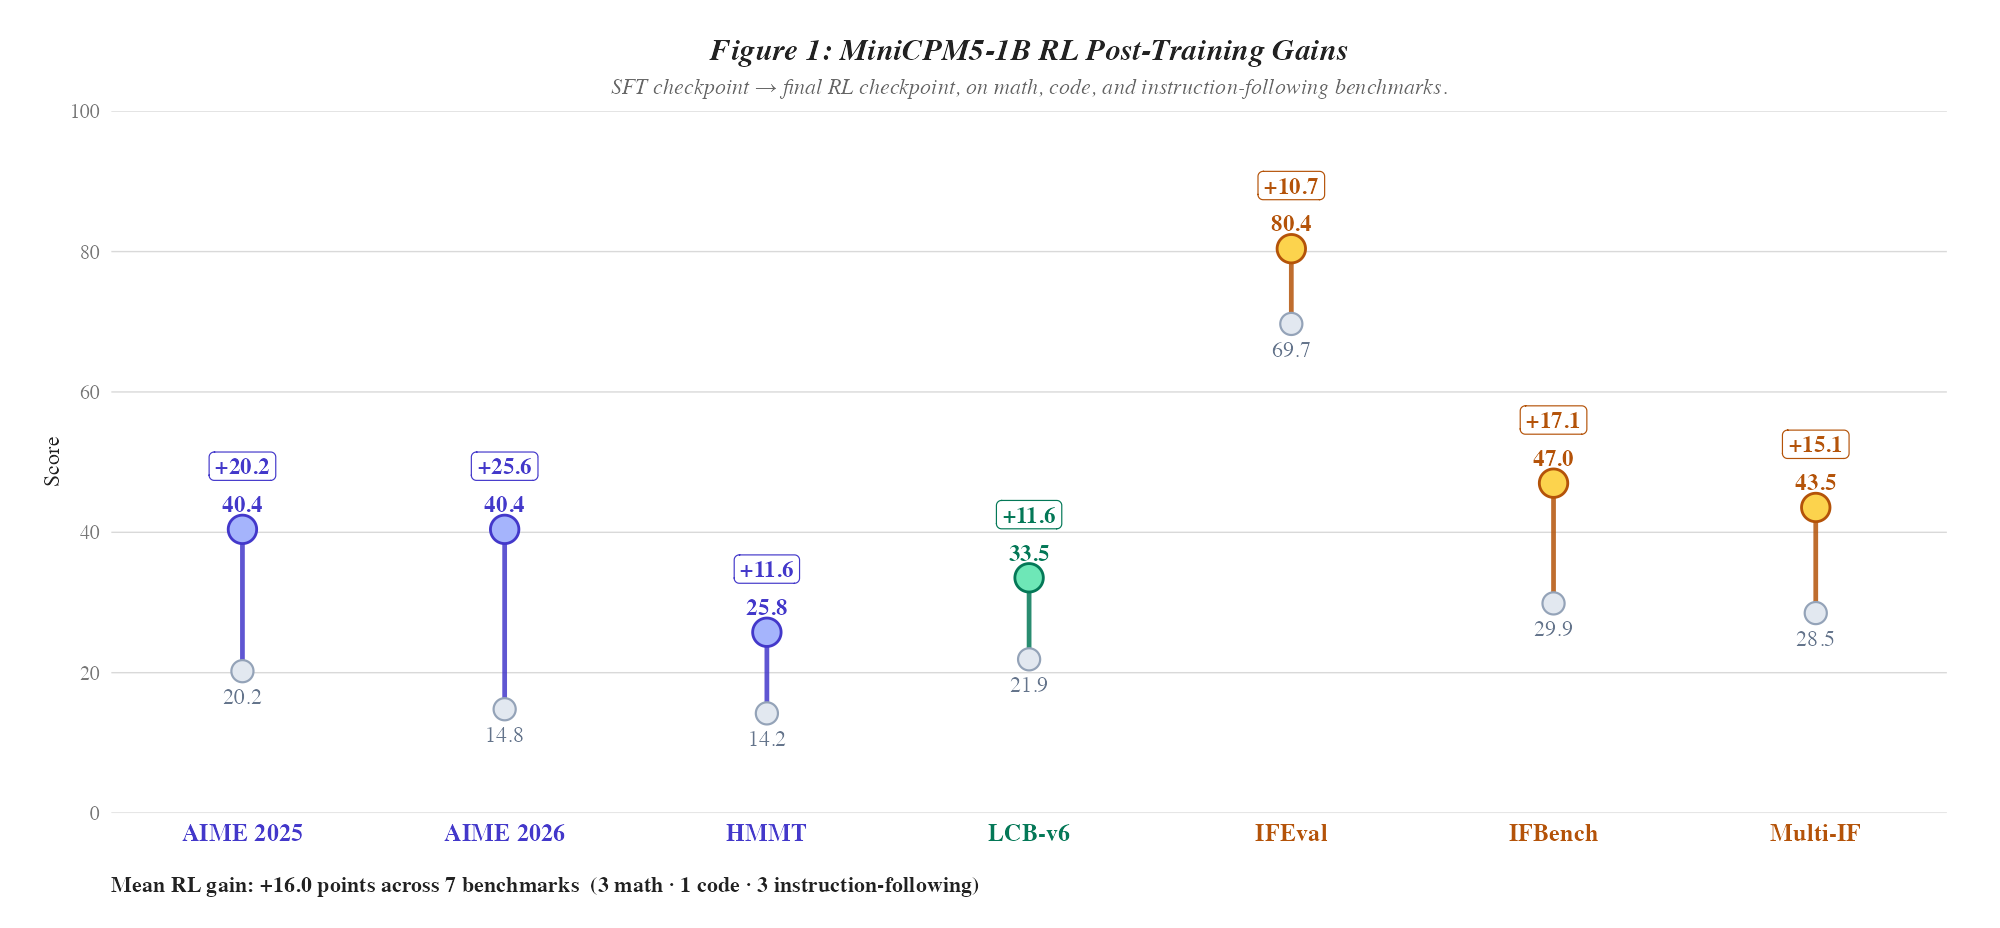
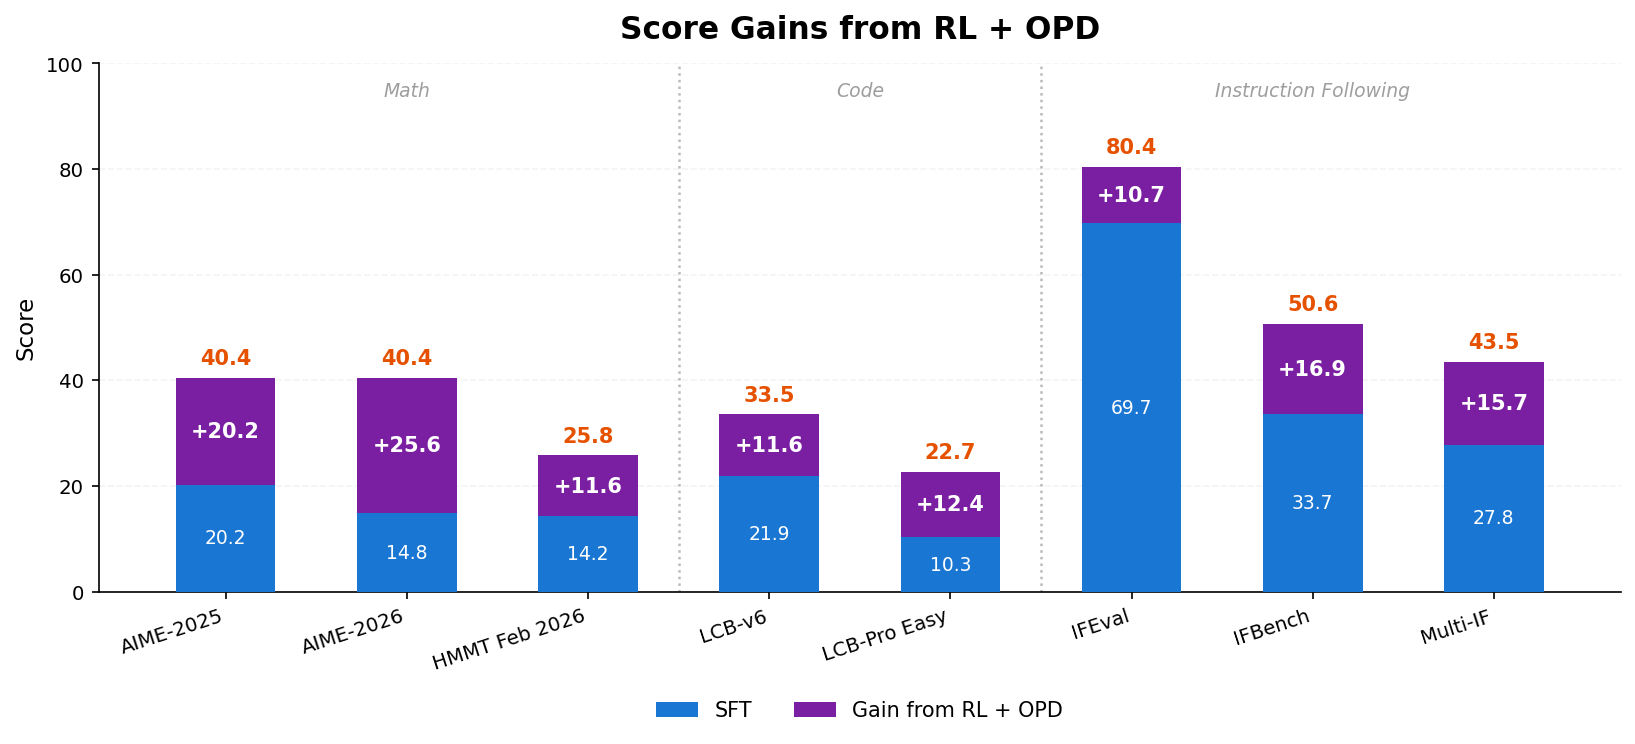
Refresh RL figures and split leaderboard image by language.

diff --git a/README-cn.md b/README-cn.md
@@ -152,7 +152,7 @@ MiniCPM5-1B 是一款 decoder-only Transformer，训练目标是提升 1B 参数
 
 我们将 MiniCPM5-1B 与同尺寸 SOTA 开源模型 **LFM2.5-1.2B-Thinking**、**Qwen3-0.6B/think**、**Qwen3.5-0.8B/think** 在公开评测上做了对比。MiniCPM5-1B 平均分为 **43.56**，比对照模型中的最高平均分 **34.52** 高约 9 分。分数提升主要来自三类能力：Agentic 工具调用上，τ²-Bench Telecom-AA 达到 **81.58**，BFCLv4 为 **21.9**；代码任务上，LCB-Pro **22.68**、LCB-v6 **33.52**、OJBench **4.09**；竞赛数学上，AIME-2025 / 2026 约 **40**，MATH-500 为 **91.6**。这些结果对应到端侧助手场景，主要价值在工具调用、代码生成和高难推理。
 
-![MiniCPM-5 1B 公开榜单成绩](./assets/minicpm5/public_leaderboard.png)
+![MiniCPM-5 1B 公开榜单成绩](./assets/minicpm5/public_leaderboard_cn.png)
 
 ### 训练流程
 

diff --git a/README.md b/README.md
@@ -163,7 +163,7 @@ For full architecture details and per-component parameter breakdown see [`docs/d
 
 We benchmark MiniCPM5-1B against 1B-class open-source SOTA peers, **LFM2.5-1.2B-Thinking**, **Qwen3-0.6B/think** and **Qwen3.5-0.8B/think**, across public benchmarks. MiniCPM5-1B reaches an average score of **43.56**, about 9 points above the strongest peer average of **34.52**. The gain mainly comes from three areas: agentic tool use, with **81.58** on τ²-Bench Telecom-AA and **21.9** on BFCLv4; code, with **22.68** on LCB-Pro, **33.52** on LCB-v6, and **4.09** on OJBench; and competition math, with AIME-2025 / 2026 around **40** and MATH-500 at **91.6**. For on-device assistant use cases, this is most relevant to tool use, code generation, and difficult reasoning.
 
-![MiniCPM-5 1B Public Leaderboard](./assets/minicpm5/public_leaderboard.png)
+![MiniCPM-5 1B Public Leaderboard](./assets/minicpm5/public_leaderboard_en.png)
 
 ### Training Recipe
 